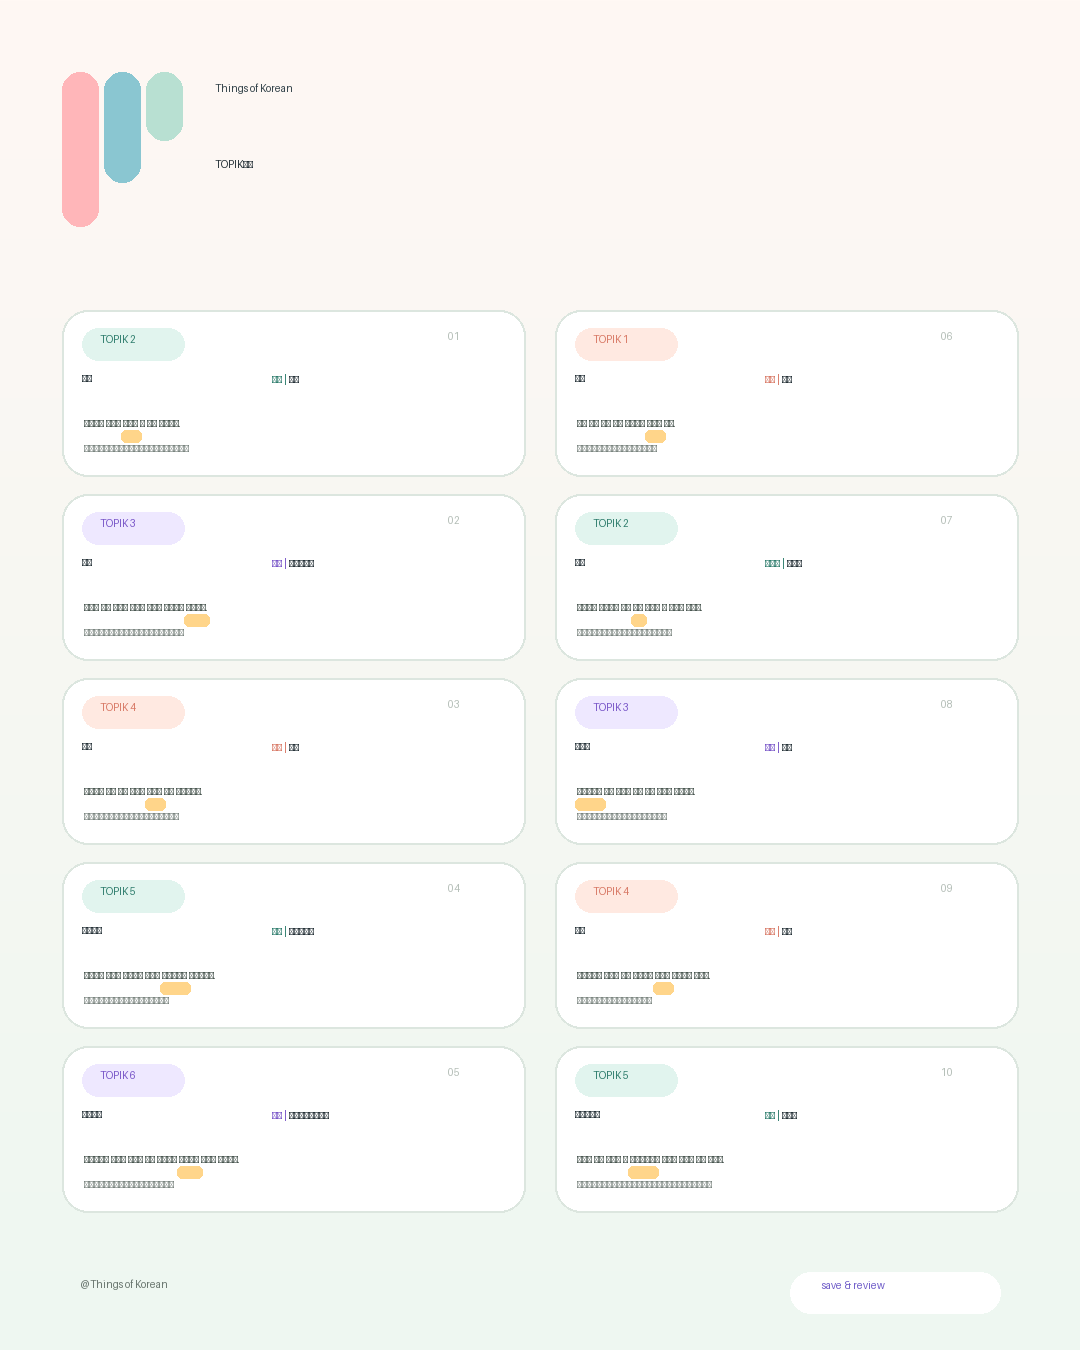
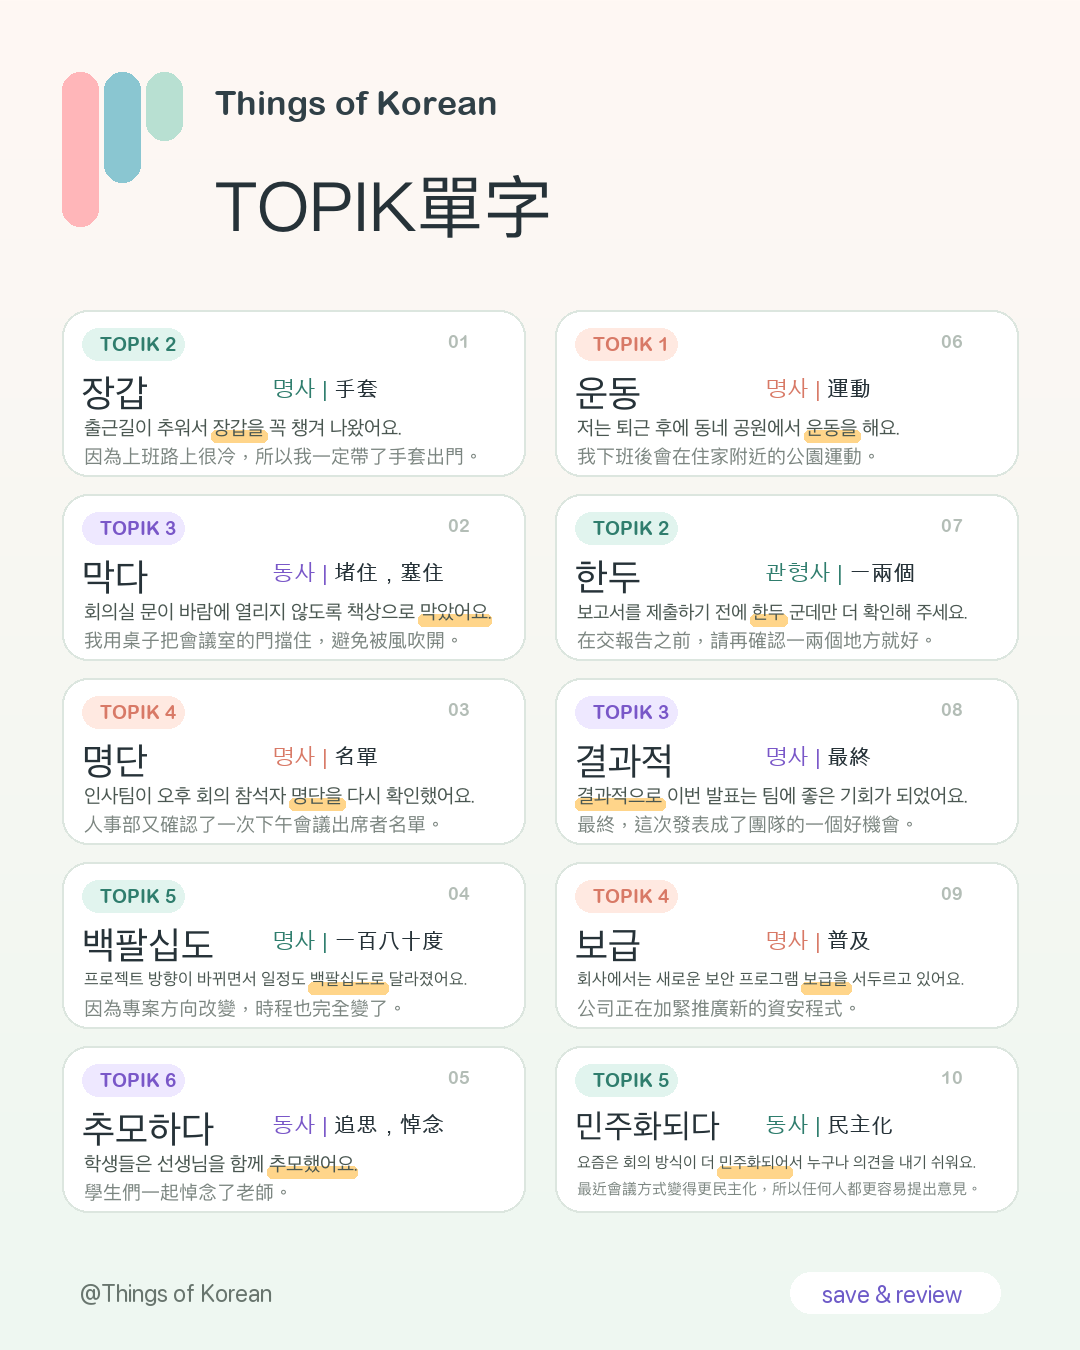
Shorten 2026-07-07 memorial example

diff --git a/scripts/render-ig-images.py b/scripts/render-ig-images.py
@@ -430,9 +430,10 @@ VOCAB_OVERRIDES = {
         "highlight": "백팔십도로",
     },
     "추모하다": {
-        "exampleKo": "학교에서는 사고로 세상을 떠난 선생님을 추모하는 시간을 가졌어요.",
-        "exampleZh": "學校舉行了悼念因事故過世老師的時間。",
-        "highlight": "추모하는",
+        "translation": "追思，悼念",
+        "exampleKo": "학생들은 선생님을 함께 추모했어요.",
+        "exampleZh": "學生們一起悼念了老師。",
+        "highlight": "추모했어요",
     },
     "운동": {
         "exampleKo": "저는 퇴근 후에 동네 공원에서 운동을 해요.",
@@ -531,6 +532,20 @@ def ellipsize(draw, text, font, max_width):
     return f"{clipped}..."
 
 
+def fit_font(draw, text, font, max_width, min_size=15):
+    current = font
+    while draw.textlength(text, font=current) > max_width and getattr(current, "size", min_size) > min_size:
+        current = current.font_variant(size=current.size - 1)
+    return current
+
+
+def draw_fit_line(draw, x, y, text, font, fill, max_width, min_size=15):
+    fitted = fit_font(draw, text, font, max_width, min_size)
+    draw.text((x, y), text, font=fitted, fill=fill)
+    bbox = draw.textbbox((x, y), text, font=fitted)
+    return y + (bbox[3] - bbox[1])
+
+
 def wrap(draw, text, xy, font, fill, max_width, max_lines=2, gap=4):
     x, y = xy
     lines = []
@@ -556,7 +571,8 @@ def wrap(draw, text, xy, font, fill, max_width, max_lines=2, gap=4):
 
 
 def draw_marker(draw, x, y, text, target, max_width, font, fill):
-    shown = ellipsize(draw, text, font, max_width)
+    shown = text
+    font = fit_font(draw, shown, font, max_width, 15)
     if not target or target not in shown:
         draw.text((x, y), shown, font=font, fill=fill)
         return y + 25
@@ -616,7 +632,7 @@ def render_vocab(rows, output_path):
         draw.text((px + draw.textlength(pos_text, font=FONTS["meta"]), py), ellipsize(draw, item["translation"], FONTS["meta"], remaining_width), font=FONTS["meta"], fill="#263238")
 
         draw_marker(draw, x + 22, y + 107, item["exampleKo"], item.get("highlight", item["word"]), 410, FONTS["ko"], "#4A5751")
-        wrap(draw, translate_example(item), (x + 22, y + 132), FONTS["zh"], "#7B8580", 410, 1, 2)
+        draw_fit_line(draw, x + 22, y + 132, translate_example(item), FONTS["zh"], "#7B8580", 410, 15)
 
     draw_footer(draw)
     img.save(output_path, quality=95)
